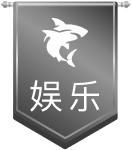
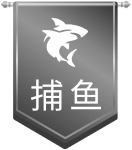
feat: LH change 娱乐 to 捕鱼 & darkmod

Changed region(s): [[0.2121, 0.5067, 0.4848, 0.7467], [0.5152, 0.5067, 0.7879, 0.7467]]

diff --git a/lh-static-h5/src/components/home/drawer/UserProfile.vue b/lh-static-h5/src/components/home/drawer/UserProfile.vue
@@ -3,7 +3,10 @@
     <linkable-button :to="isLogin ? '/account' : '/login'" class="profile-link-button">
       <div class="profile-info">
         <div class="avatar">
-          <img :src="isLogin && profilePhoto ? require(`../../../assets/images/profile/${profilePhoto}.png`) : DefaultAvatarImg" />
+          <img v-if="!store.token" :src="DefaultAvatarImg" />
+          <img v-if="isLogin && profilePhoto && profilePhoto.includes('default')" :src="require(`../../../assets/images/profile/${store.profilePhoto}.png`)" />
+          <img v-if="isLogin && profilePhoto && !profilePhoto.includes('default')" :src="imageDir + store.profilePhoto + '?v=' + timestamp" />
+
         </div>
         <span>{{ isLogin ? nickName : "未登录" }}</span>
       </div>
@@ -29,6 +32,7 @@
 import { onMounted, ref } from "vue";
 import { storeToRefs } from "pinia";
 import { userStore } from "stores/index";
+import moment from "moment"
 
 import LinkableButton from "components/home/drawer/LinkableButton.vue";
 import FinanceButton from "components/home/drawer/FinanceButton.vue";
@@ -37,6 +41,9 @@ import DrawerDeposit from "assets/images/home/drawer-deposit.png";
 import DrawerWithdraw from "assets/images/home/drawer-withdraw.png";
 
 const isLogin = ref(false);
+
+const imageDir = process.env.IMAGE_CDN + "/profile/";
+const timestamp= moment().unix();
 
 var qs = require('qs')
 const store = userStore();
@@ -75,6 +82,7 @@ onMounted(() => {
       min-width: 60px;
       img {
         width: 100%;
+        border-radius:50%;
       }
     }
   }

diff --git a/lh-static-web/src/components/layout/CommonHeader.vue b/lh-static-web/src/components/layout/CommonHeader.vue
@@ -491,7 +491,7 @@ export default defineComponent({
       { code: "poker", name: "棋牌", enName: "Poker", path: "/poker", submenu: true },
       { code: "slot", name: "电子", enName: "Slots", path: "/slot", submenu: true },
       { code: "lottery", name: "彩票", enName: "Lottery", path: "/lottery", submenu: true },
-      { code: "fish", name: "娱乐", enName: "Fishing", path: "/fishing", submenu: true },
+      { code: "fish", name: "捕鱼", enName: "Fishing", path: "/fishing", submenu: true },
       { code: "Promotion", name: "优惠", enName: "Promotion", path: "/promotion", submenu: false, hasicon: true },
       { code: "Agent", name: "加盟", enName: "Agent", path: "/affiliate", hasicon: true },
       { code: "App", name: "APP", enName: "App", path: "/app", submenu: true, hasicon: true },

diff --git a/lh-static-h5/src/components/home/drawer/SystemConfig.vue b/lh-static-h5/src/components/home/drawer/SystemConfig.vue
@@ -12,7 +12,7 @@ import { useLocalStorage } from "@vueuse/core";
 import { useQuasar } from "quasar";
 import { userStore } from "src/stores";
 
-const store= userStore
+const store= userStore();
 const isDarkMode = useLocalStorage("DARK_MODE", false);
 const $q = useQuasar();
 
